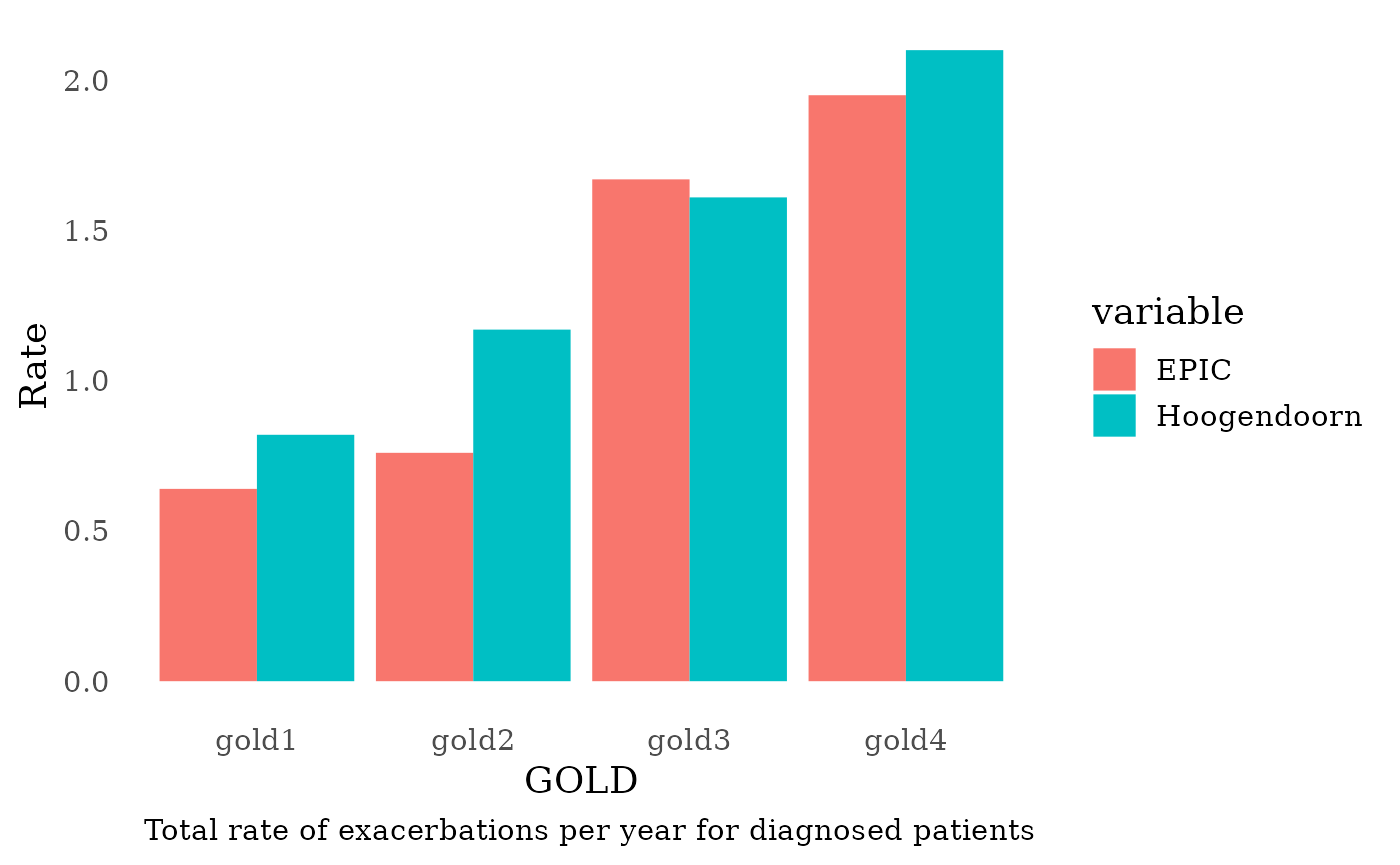
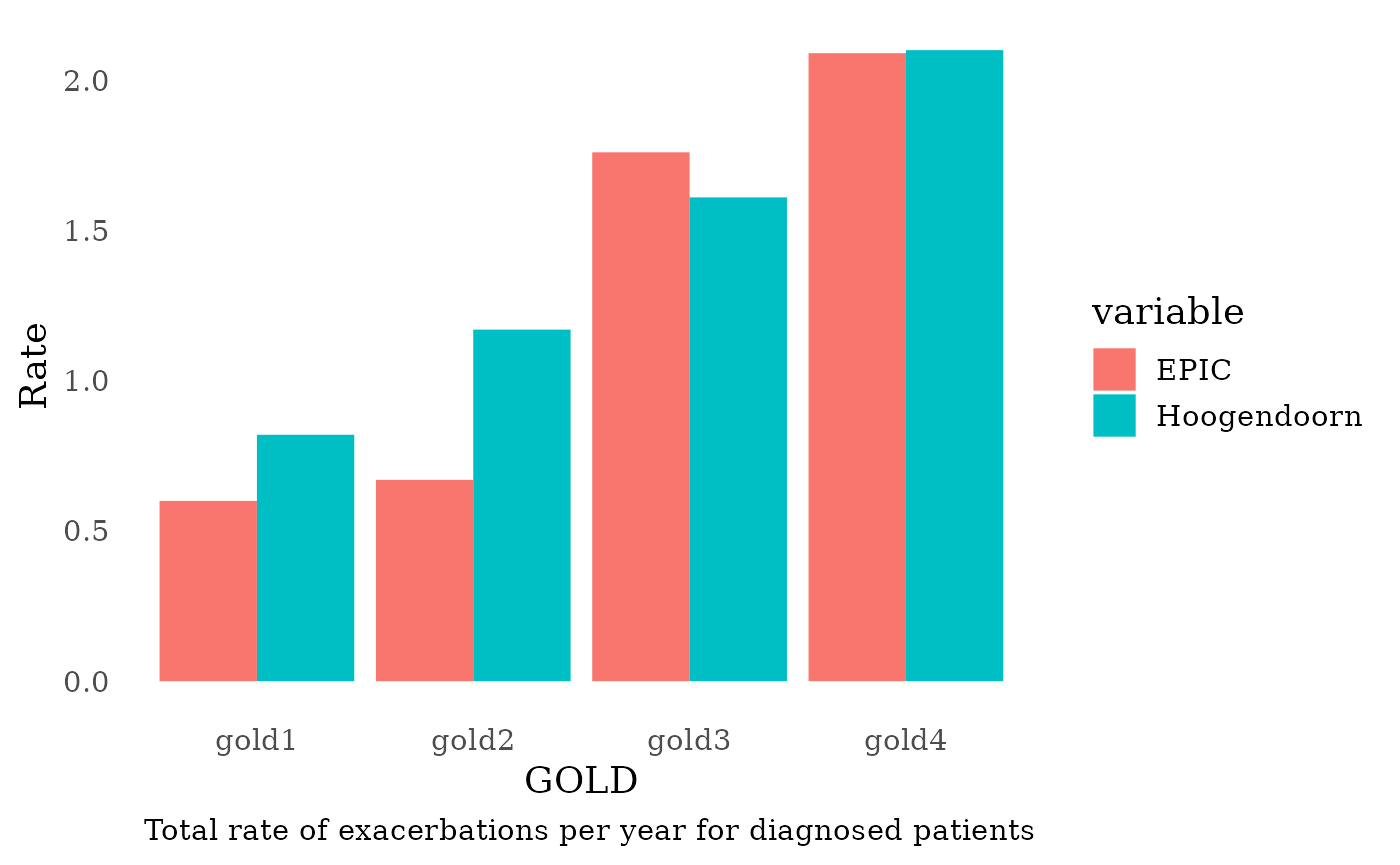
Deploying to gh-pages from @ resplab/epicR@bbd149249d0250e4ca959f1def8350e441cd35a4 🚀

diff --git a/articles/RecalibratingEPIC.html b/articles/RecalibratingEPIC.html
@@ -93,16 +93,16 @@
 <span><span class="co">#&gt; Initializing the session</span></span>
 <span><span class="co">#&gt; Terminating the session</span></span>
 <span><span class="co">#&gt; Exacerbation Rates per GOLD stages for all patients:</span></span>
-<span><span class="co">#&gt; exacRateGOLDI   = 0.29</span></span>
+<span><span class="co">#&gt; exacRateGOLDI   = 0.28</span></span>
 <span><span class="co">#&gt; exacRateGOLDII  = 0.54</span></span>
-<span><span class="co">#&gt; exacRateGOLDIII = 0.8</span></span>
-<span><span class="co">#&gt; exacRateGOLDIV  = 1.24</span></span>
-<span><span class="co">#&gt; Total rate of exacerbation in all patients (0.39 per year in CanCOLD): 0.48</span></span>
+<span><span class="co">#&gt; exacRateGOLDIII = 0.82</span></span>
+<span><span class="co">#&gt; exacRateGOLDIV  = 1.13</span></span>
+<span><span class="co">#&gt; Total rate of exacerbation in all patients (0.39 per year in CanCOLD): 0.47</span></span>
 <span><span class="co">#&gt; Is the rate of severe and very severe exacerbations around 477 per CIHI?</span></span>
-<span><span class="co">#&gt; Average rate during 20 years: 476.06</span></span>
-<span><span class="co">#&gt; Rate in 2017: 366.51</span></span></code></pre></div>
+<span><span class="co">#&gt; Average rate during 20 years: 442.14</span></span>
+<span><span class="co">#&gt; Rate in 2017: 362.82</span></span></code></pre></div>
 <p><img src="RecalibratingEPIC_files/figure-html/validation-1.png" width="700"></p>
-<pre><code><span><span class="co">#&gt; Total rate of exacerbation in diagnosed patients (1.5 per year in Hoogendoorn): 0.91</span></span></code></pre>
+<pre><code><span><span class="co">#&gt; Total rate of exacerbation in diagnosed patients (1.5 per year in Hoogendoorn): 0.88</span></span></code></pre>
 <p><img src="RecalibratingEPIC_files/figure-html/validation-2.png" width="700"><img src="RecalibratingEPIC_files/figure-html/validation-3.png" width="700"><img src="RecalibratingEPIC_files/figure-html/validation-4.png" width="700"></p>
 <pre><code><span><span class="co">#&gt; Total rate of exacerbation in undiagnosed patients (0.30 per year in CanCOLD): 0.25</span></span></code></pre>
 <p><img src="RecalibratingEPIC_files/figure-html/validation-5.png" width="700"></p>
@@ -115,16 +115,16 @@
 <span><span class="co">#&gt; Initializing the session</span></span>
 <span><span class="co">#&gt; Terminating the session</span></span>
 <span><span class="co">#&gt; Exacerbation Rates per GOLD stages for all patients:</span></span>
-<span><span class="co">#&gt; exacRateGOLDI   = 0.5</span></span>
-<span><span class="co">#&gt; exacRateGOLDII  = 0.88</span></span>
-<span><span class="co">#&gt; exacRateGOLDIII = 1.46</span></span>
-<span><span class="co">#&gt; exacRateGOLDIV  = 1.69</span></span>
-<span><span class="co">#&gt; Total rate of exacerbation in all patients (0.39 per year in CanCOLD): 0.8</span></span>
+<span><span class="co">#&gt; exacRateGOLDI   = 0.48</span></span>
+<span><span class="co">#&gt; exacRateGOLDII  = 0.85</span></span>
+<span><span class="co">#&gt; exacRateGOLDIII = 1.38</span></span>
+<span><span class="co">#&gt; exacRateGOLDIV  = 1.58</span></span>
+<span><span class="co">#&gt; Total rate of exacerbation in all patients (0.39 per year in CanCOLD): 0.77</span></span>
 <span><span class="co">#&gt; Is the rate of severe and very severe exacerbations around 477 per CIHI?</span></span>
-<span><span class="co">#&gt; Average rate during 20 years: 754.34</span></span>
-<span><span class="co">#&gt; Rate in 2017: 728.03</span></span></code></pre></div>
+<span><span class="co">#&gt; Average rate during 20 years: 694.62</span></span>
+<span><span class="co">#&gt; Rate in 2017: 658.2</span></span></code></pre></div>
 <p><img src="RecalibratingEPIC_files/figure-html/validationNewEquation-1.png" width="700"></p>
-<pre><code><span><span class="co">#&gt; Total rate of exacerbation in diagnosed patients (1.5 per year in Hoogendoorn): 1.18</span></span></code></pre>
+<pre><code><span><span class="co">#&gt; Total rate of exacerbation in diagnosed patients (1.5 per year in Hoogendoorn): 1.11</span></span></code></pre>
 <p><img src="RecalibratingEPIC_files/figure-html/validationNewEquation-2.png" width="700"><img src="RecalibratingEPIC_files/figure-html/validationNewEquation-3.png" width="700"><img src="RecalibratingEPIC_files/figure-html/validationNewEquation-4.png" width="700"></p>
 <pre><code><span><span class="co">#&gt; Total rate of exacerbation in undiagnosed patients (0.30 per year in CanCOLD): 0.49</span></span></code></pre>
 <p><img src="RecalibratingEPIC_files/figure-html/validationNewEquation-5.png" width="700"></p>
@@ -139,19 +139,19 @@
 <span><span class="co">#&gt; Initializing the session</span></span>
 <span><span class="co">#&gt; Terminating the session</span></span>
 <span><span class="co">#&gt; Exacerbation Rates per GOLD stages for all patients:</span></span>
-<span><span class="co">#&gt; exacRateGOLDI   = 0.4</span></span>
+<span><span class="co">#&gt; exacRateGOLDI   = 0.39</span></span>
 <span><span class="co">#&gt; exacRateGOLDII  = 0.69</span></span>
-<span><span class="co">#&gt; exacRateGOLDIII = 1.46</span></span>
-<span><span class="co">#&gt; exacRateGOLDIV  = 1.81</span></span>
-<span><span class="co">#&gt; Total rate of exacerbation in all patients (0.39 per year in CanCOLD): 0.67</span></span>
+<span><span class="co">#&gt; exacRateGOLDIII = 1.39</span></span>
+<span><span class="co">#&gt; exacRateGOLDIV  = 1.66</span></span>
+<span><span class="co">#&gt; Total rate of exacerbation in all patients (0.39 per year in CanCOLD): 0.66</span></span>
 <span><span class="co">#&gt; Is the rate of severe and very severe exacerbations around 477 per CIHI?</span></span>
-<span><span class="co">#&gt; Average rate during 20 years: 650.3</span></span>
-<span><span class="co">#&gt; Rate in 2017: 583.93</span></span></code></pre></div>
-<p><img src="RecalibratingEPIC_files/figure-html/validationNewEquation2-1.png" width="700"></p>
-<pre><code><span><span class="co">#&gt; Total rate of exacerbation in diagnosed patients (1.5 per year in Hoogendoorn): 1</span></span></code></pre>
-<p><img src="RecalibratingEPIC_files/figure-html/validationNewEquation2-2.png" width="700"><img src="RecalibratingEPIC_files/figure-html/validationNewEquation2-3.png" width="700"><img src="RecalibratingEPIC_files/figure-html/validationNewEquation2-4.png" width="700"></p>
-<pre><code><span><span class="co">#&gt; Total rate of exacerbation in undiagnosed patients (0.30 per year in CanCOLD): 0.39</span></span></code></pre>
-<p><img src="RecalibratingEPIC_files/figure-html/validationNewEquation2-5.png" width="700"></p>
+<span><span class="co">#&gt; Average rate during 20 years: 668.15</span></span>
+<span><span class="co">#&gt; Rate in 2017: 560.67</span></span></code></pre></div>
+<p><img src="RecalibratingEPIC_files/figure-html/validationNewEquation1-1.png" width="700"></p>
+<pre><code><span><span class="co">#&gt; Total rate of exacerbation in diagnosed patients (1.5 per year in Hoogendoorn): 0.96</span></span></code></pre>
+<p><img src="RecalibratingEPIC_files/figure-html/validationNewEquation1-2.png" width="700"><img src="RecalibratingEPIC_files/figure-html/validationNewEquation1-3.png" width="700"><img src="RecalibratingEPIC_files/figure-html/validationNewEquation1-4.png" width="700"></p>
+<pre><code><span><span class="co">#&gt; Total rate of exacerbation in undiagnosed patients (0.30 per year in CanCOLD): 0.4</span></span></code></pre>
+<p><img src="RecalibratingEPIC_files/figure-html/validationNewEquation1-5.png" width="700"></p>
 </div>
 <div class="section level3">
 <h3 id="recalibration-2">Recalibration 2:<a class="anchor" aria-label="anchor" href="#recalibration-2"></a>
@@ -163,19 +163,19 @@
 <span><span class="co">#&gt; Initializing the session</span></span>
 <span><span class="co">#&gt; Terminating the session</span></span>
 <span><span class="co">#&gt; Exacerbation Rates per GOLD stages for all patients:</span></span>
-<span><span class="co">#&gt; exacRateGOLDI   = 0.39</span></span>
-<span><span class="co">#&gt; exacRateGOLDII  = 0.7</span></span>
-<span><span class="co">#&gt; exacRateGOLDIII = 1.5</span></span>
-<span><span class="co">#&gt; exacRateGOLDIV  = 1.94</span></span>
+<span><span class="co">#&gt; exacRateGOLDI   = 0.4</span></span>
+<span><span class="co">#&gt; exacRateGOLDII  = 0.71</span></span>
+<span><span class="co">#&gt; exacRateGOLDIII = 1.49</span></span>
+<span><span class="co">#&gt; exacRateGOLDIV  = 1.69</span></span>
 <span><span class="co">#&gt; Total rate of exacerbation in all patients (0.39 per year in CanCOLD): 0.68</span></span>
 <span><span class="co">#&gt; Is the rate of severe and very severe exacerbations around 477 per CIHI?</span></span>
-<span><span class="co">#&gt; Average rate during 20 years: 668</span></span>
-<span><span class="co">#&gt; Rate in 2017: 635.15</span></span></code></pre></div>
-<p><img src="RecalibratingEPIC_files/figure-html/validationNewEquation3-1.png" width="700"></p>
+<span><span class="co">#&gt; Average rate during 20 years: 675.54</span></span>
+<span><span class="co">#&gt; Rate in 2017: 574.13</span></span></code></pre></div>
+<p><img src="RecalibratingEPIC_files/figure-html/validationNewEquation2-1.png" width="700"></p>
 <pre><code><span><span class="co">#&gt; Total rate of exacerbation in diagnosed patients (1.5 per year in Hoogendoorn): 1</span></span></code></pre>
-<p><img src="RecalibratingEPIC_files/figure-html/validationNewEquation3-2.png" width="700"><img src="RecalibratingEPIC_files/figure-html/validationNewEquation3-3.png" width="700"><img src="RecalibratingEPIC_files/figure-html/validationNewEquation3-4.png" width="700"></p>
+<p><img src="RecalibratingEPIC_files/figure-html/validationNewEquation2-2.png" width="700"><img src="RecalibratingEPIC_files/figure-html/validationNewEquation2-3.png" width="700"><img src="RecalibratingEPIC_files/figure-html/validationNewEquation2-4.png" width="700"></p>
 <pre><code><span><span class="co">#&gt; Total rate of exacerbation in undiagnosed patients (0.30 per year in CanCOLD): 0.41</span></span></code></pre>
-<p><img src="RecalibratingEPIC_files/figure-html/validationNewEquation3-5.png" width="700"></p>
+<p><img src="RecalibratingEPIC_files/figure-html/validationNewEquation2-5.png" width="700"></p>
 </div>
 <div class="section level3">
 <h3 id="recalibration-3">Recalibration 3:<a class="anchor" aria-label="anchor" href="#recalibration-3"></a>
@@ -187,19 +187,19 @@
 <span><span class="co">#&gt; Initializing the session</span></span>
 <span><span class="co">#&gt; Terminating the session</span></span>
 <span><span class="co">#&gt; Exacerbation Rates per GOLD stages for all patients:</span></span>
-<span><span class="co">#&gt; exacRateGOLDI   = 0.4</span></span>
-<span><span class="co">#&gt; exacRateGOLDII  = 0.41</span></span>
-<span><span class="co">#&gt; exacRateGOLDIII = 1.46</span></span>
-<span><span class="co">#&gt; exacRateGOLDIV  = 1.77</span></span>
-<span><span class="co">#&gt; Total rate of exacerbation in all patients (0.39 per year in CanCOLD): 0.55</span></span>
+<span><span class="co">#&gt; exacRateGOLDI   = 0.41</span></span>
+<span><span class="co">#&gt; exacRateGOLDII  = 0.43</span></span>
+<span><span class="co">#&gt; exacRateGOLDIII = 1.53</span></span>
+<span><span class="co">#&gt; exacRateGOLDIV  = 1.6</span></span>
+<span><span class="co">#&gt; Total rate of exacerbation in all patients (0.39 per year in CanCOLD): 0.57</span></span>
 <span><span class="co">#&gt; Is the rate of severe and very severe exacerbations around 477 per CIHI?</span></span>
-<span><span class="co">#&gt; Average rate during 20 years: 546.8</span></span>
-<span><span class="co">#&gt; Rate in 2017: 504.34</span></span></code></pre></div>
-<p><img src="RecalibratingEPIC_files/figure-html/validationNewEquation4-1.png" width="700"></p>
-<pre><code><span><span class="co">#&gt; Total rate of exacerbation in diagnosed patients (1.5 per year in Hoogendoorn): 0.82</span></span></code></pre>
-<p><img src="RecalibratingEPIC_files/figure-html/validationNewEquation4-2.png" width="700"><img src="RecalibratingEPIC_files/figure-html/validationNewEquation4-3.png" width="700"><img src="RecalibratingEPIC_files/figure-html/validationNewEquation4-4.png" width="700"></p>
-<pre><code><span><span class="co">#&gt; Total rate of exacerbation in undiagnosed patients (0.30 per year in CanCOLD): 0.3</span></span></code></pre>
-<p><img src="RecalibratingEPIC_files/figure-html/validationNewEquation4-5.png" width="700"></p>
+<span><span class="co">#&gt; Average rate during 20 years: 575.19</span></span>
+<span><span class="co">#&gt; Rate in 2017: 453.36</span></span></code></pre></div>
+<p><img src="RecalibratingEPIC_files/figure-html/validationNewEquation3-1.png" width="700"></p>
+<pre><code><span><span class="co">#&gt; Total rate of exacerbation in diagnosed patients (1.5 per year in Hoogendoorn): 0.87</span></span></code></pre>
+<p><img src="RecalibratingEPIC_files/figure-html/validationNewEquation3-2.png" width="700"><img src="RecalibratingEPIC_files/figure-html/validationNewEquation3-3.png" width="700"><img src="RecalibratingEPIC_files/figure-html/validationNewEquation3-4.png" width="700"></p>
+<pre><code><span><span class="co">#&gt; Total rate of exacerbation in undiagnosed patients (0.30 per year in CanCOLD): 0.31</span></span></code></pre>
+<p><img src="RecalibratingEPIC_files/figure-html/validationNewEquation3-5.png" width="700"></p>
 </div>
 <div class="section level3">
 <h3 id="recalibration-4">Recalibration 4:<a class="anchor" aria-label="anchor" href="#recalibration-4"></a>
@@ -211,18 +211,42 @@
 <span><span class="co">#&gt; Initializing the session</span></span>
 <span><span class="co">#&gt; Terminating the session</span></span>
 <span><span class="co">#&gt; Exacerbation Rates per GOLD stages for all patients:</span></span>
-<span><span class="co">#&gt; exacRateGOLDI   = 0.41</span></span>
-<span><span class="co">#&gt; exacRateGOLDII  = 0.57</span></span>
-<span><span class="co">#&gt; exacRateGOLDIII = 1.5</span></span>
-<span><span class="co">#&gt; exacRateGOLDIV  = 1.77</span></span>
-<span><span class="co">#&gt; Total rate of exacerbation in all patients (0.39 per year in CanCOLD): 0.62</span></span>
+<span><span class="co">#&gt; exacRateGOLDI   = 0.4</span></span>
+<span><span class="co">#&gt; exacRateGOLDII  = 0.58</span></span>
+<span><span class="co">#&gt; exacRateGOLDIII = 1.49</span></span>
+<span><span class="co">#&gt; exacRateGOLDIV  = 1.71</span></span>
+<span><span class="co">#&gt; Total rate of exacerbation in all patients (0.39 per year in CanCOLD): 0.63</span></span>
 <span><span class="co">#&gt; Is the rate of severe and very severe exacerbations around 477 per CIHI?</span></span>
-<span><span class="co">#&gt; Average rate during 20 years: 610.36</span></span>
-<span><span class="co">#&gt; Rate in 2017: 568.67</span></span></code></pre></div>
-<p><img src="RecalibratingEPIC_files/figure-html/validationNewEquation5-1.png" width="700"></p>
-<pre><code><span><span class="co">#&gt; Total rate of exacerbation in diagnosed patients (1.5 per year in Hoogendoorn): 0.92</span></span></code></pre>
-<p><img src="RecalibratingEPIC_files/figure-html/validationNewEquation5-2.png" width="700"><img src="RecalibratingEPIC_files/figure-html/validationNewEquation5-3.png" width="700"><img src="RecalibratingEPIC_files/figure-html/validationNewEquation5-4.png" width="700"></p>
+<span><span class="co">#&gt; Average rate during 20 years: 643.04</span></span>
+<span><span class="co">#&gt; Rate in 2017: 574.61</span></span></code></pre></div>
+<p><img src="RecalibratingEPIC_files/figure-html/validationNewEquation4-1.png" width="700"></p>
+<pre><code><span><span class="co">#&gt; Total rate of exacerbation in diagnosed patients (1.5 per year in Hoogendoorn): 0.95</span></span></code></pre>
+<p><img src="RecalibratingEPIC_files/figure-html/validationNewEquation4-2.png" width="700"><img src="RecalibratingEPIC_files/figure-html/validationNewEquation4-3.png" width="700"><img src="RecalibratingEPIC_files/figure-html/validationNewEquation4-4.png" width="700"></p>
 <pre><code><span><span class="co">#&gt; Total rate of exacerbation in undiagnosed patients (0.30 per year in CanCOLD): 0.36</span></span></code></pre>
+<p><img src="RecalibratingEPIC_files/figure-html/validationNewEquation4-5.png" width="700"></p>
+</div>
+<div class="section level3">
+<h3 id="recalibration-5">Recalibration 5:<a class="anchor" aria-label="anchor" href="#recalibration-5"></a>
+</h3>
+<p>GOLD2 back a bit again.</p>
+<div class="sourceCode" id="cb20"><pre class="downlit sourceCode r">
+<code class="sourceCode R"><span><span class="va">inputs</span><span class="op">$</span><span class="va">exacerbation</span><span class="op">$</span><span class="va">ln_rate_betas</span> <span class="op">&lt;-</span> <span class="fu"><a href="https://rdrr.io/r/base/t.html" class="external-link">t</a></span><span class="op">(</span><span class="fu"><a href="https://rdrr.io/r/base/matrix.html" class="external-link">as.matrix</a></span><span class="op">(</span><span class="fu"><a href="https://rdrr.io/r/base/c.html" class="external-link">c</a></span><span class="op">(</span>intercept <span class="op">=</span> <span class="fl">1.7</span>, female <span class="op">=</span> <span class="fl">0</span>, age <span class="op">=</span> <span class="fl">0.04082</span> <span class="op">*</span> <span class="fl">0.1</span>, fev1 <span class="op">=</span> <span class="op">-</span><span class="fl">1.5</span>, smoking_status <span class="op">=</span> <span class="fl">0.5</span>, gold1 <span class="op">=</span> <span class="fl">0.3</span> , gold2 <span class="op">=</span> <span class="op">-</span><span class="fl">0.3</span> , gold3 <span class="op">=</span> <span class="fl">0.08</span> , gold4 <span class="op">=</span> <span class="op">-</span><span class="fl">0.35</span> , diagnosis_effect <span class="op">=</span> <span class="fl">0</span><span class="op">)</span><span class="op">)</span><span class="op">)</span></span>
+<span><span class="fu"><a href="../reference/validate_exacerbation.html">validate_exacerbation</a></span><span class="op">(</span><span class="fl">5e4</span>, <span class="va">inputs</span><span class="op">)</span></span>
+<span><span class="co">#&gt; Initializing the session</span></span>
+<span><span class="co">#&gt; Terminating the session</span></span>
+<span><span class="co">#&gt; Exacerbation Rates per GOLD stages for all patients:</span></span>
+<span><span class="co">#&gt; exacRateGOLDI   = 0.39</span></span>
+<span><span class="co">#&gt; exacRateGOLDII  = 0.52</span></span>
+<span><span class="co">#&gt; exacRateGOLDIII = 1.54</span></span>
+<span><span class="co">#&gt; exacRateGOLDIV  = 1.81</span></span>
+<span><span class="co">#&gt; Total rate of exacerbation in all patients (0.39 per year in CanCOLD): 0.6</span></span>
+<span><span class="co">#&gt; Is the rate of severe and very severe exacerbations around 477 per CIHI?</span></span>
+<span><span class="co">#&gt; Average rate during 20 years: 606.01</span></span>
+<span><span class="co">#&gt; Rate in 2017: 529.31</span></span></code></pre></div>
+<p><img src="RecalibratingEPIC_files/figure-html/validationNewEquation5-1.png" width="700"></p>
+<pre><code><span><span class="co">#&gt; Total rate of exacerbation in diagnosed patients (1.5 per year in Hoogendoorn): 0.91</span></span></code></pre>
+<p><img src="RecalibratingEPIC_files/figure-html/validationNewEquation5-2.png" width="700"><img src="RecalibratingEPIC_files/figure-html/validationNewEquation5-3.png" width="700"><img src="RecalibratingEPIC_files/figure-html/validationNewEquation5-4.png" width="700"></p>
+<pre><code><span><span class="co">#&gt; Total rate of exacerbation in undiagnosed patients (0.30 per year in CanCOLD): 0.35</span></span></code></pre>
 <p><img src="RecalibratingEPIC_files/figure-html/validationNewEquation5-5.png" width="700"></p>
 </div>
   </div>

diff --git a/articles/GettingStarted.html b/articles/GettingStarted.html
@@ -204,40 +204,40 @@
 <span><span class="va">events</span> <span class="op">&lt;-</span> <span class="fu"><a href="https://rdrr.io/r/base/as.data.frame.html" class="external-link">as.data.frame</a></span><span class="op">(</span><span class="fu"><a href="../reference/Cget_all_events_matrix.html">Cget_all_events_matrix</a></span><span class="op">(</span><span class="op">)</span><span class="op">)</span></span>
 <span><span class="fu"><a href="https://rdrr.io/r/utils/head.html" class="external-link">head</a></span><span class="op">(</span><span class="va">events</span><span class="op">)</span></span>
 <span><span class="co">#&gt;   id local_time female time_at_creation age_at_creation pack_years gold event</span></span>
-<span><span class="co">#&gt; 1  0          0      1                0        41.20014          0    0     0</span></span>
-<span><span class="co">#&gt; 2  0          1      1                0        41.20014          0    0     1</span></span>
-<span><span class="co">#&gt; 3  0          2      1                0        41.20014          0    0     1</span></span>
-<span><span class="co">#&gt; 4  0          3      1                0        41.20014          0    0     1</span></span>
-<span><span class="co">#&gt; 5  0          4      1                0        41.20014          0    0     1</span></span>
-<span><span class="co">#&gt; 6  0          5      1                0        41.20014          0    0    14</span></span>
+<span><span class="co">#&gt; 1  0   0.000000      1                0        42.65422  0.0000000    0     0</span></span>
+<span><span class="co">#&gt; 2  0   1.000000      1                0        42.65422  0.0000000    0     1</span></span>
+<span><span class="co">#&gt; 3  0   2.000000      1                0        42.65422  0.0000000    0     1</span></span>
+<span><span class="co">#&gt; 4  0   3.000000      1                0        42.65422  0.0000000    0     1</span></span>
+<span><span class="co">#&gt; 5  0   3.496254      1                0        42.65422  0.0000000    0     3</span></span>
+<span><span class="co">#&gt; 6  0   4.000000      1                0        42.65422  0.5037456    0     1</span></span>
 <span><span class="co">#&gt;   FEV1 FEV1_slope FEV1_acceleration pred_FEV1 smoking_status localtime_at_COPD</span></span>
 <span><span class="co">#&gt; 1    0          0                 0         0              0                 0</span></span>
 <span><span class="co">#&gt; 2    0          0                 0         0              0                 0</span></span>
 <span><span class="co">#&gt; 3    0          0                 0         0              0                 0</span></span>
 <span><span class="co">#&gt; 4    0          0                 0         0              0                 0</span></span>
-<span><span class="co">#&gt; 5    0          0                 0         0              0                 0</span></span>
-<span><span class="co">#&gt; 6    0          0                 0         0              0                 0</span></span>
+<span><span class="co">#&gt; 5    0          0                 0         0              1                 0</span></span>
+<span><span class="co">#&gt; 6    0          0                 0         0              1                 0</span></span>
 <span><span class="co">#&gt;   age_at_COPD weight_at_COPD   height followup_after_COPD FEV1_baseline</span></span>
-<span><span class="co">#&gt; 1           0              0 1.703621                   0      3.268754</span></span>
-<span><span class="co">#&gt; 2           0              0 1.703621                   0      3.268754</span></span>
-<span><span class="co">#&gt; 3           0              0 1.703621                   0      3.268754</span></span>
-<span><span class="co">#&gt; 4           0              0 1.703621                   0      3.268754</span></span>
-<span><span class="co">#&gt; 5           0              0 1.703621                   0      3.268754</span></span>
-<span><span class="co">#&gt; 6           0              0 1.703621                   0      3.268754</span></span>
+<span><span class="co">#&gt; 1           0              0 1.683123                   0      2.155322</span></span>
+<span><span class="co">#&gt; 2           0              0 1.683123                   0      2.155322</span></span>
+<span><span class="co">#&gt; 3           0              0 1.683123                   0      2.155322</span></span>
+<span><span class="co">#&gt; 4           0              0 1.683123                   0      2.155322</span></span>
+<span><span class="co">#&gt; 5           0              0 1.683123                   0      2.155322</span></span>
+<span><span class="co">#&gt; 6           0              0 1.683123                   0      2.155322</span></span>
 <span><span class="co">#&gt;   exac_status cough phlegm wheeze dyspnea gpvisits diagnosis medication_status</span></span>
-<span><span class="co">#&gt; 1           0     0      0      0       0        0         0                 0</span></span>
-<span><span class="co">#&gt; 2           0     0      0      0       0        1         0                 0</span></span>
-<span><span class="co">#&gt; 3           0     0      0      0       0        5         0                 0</span></span>
-<span><span class="co">#&gt; 4           0     0      0      0       0        0         0                 0</span></span>
-<span><span class="co">#&gt; 5           0     0      0      0       0        1         0                 0</span></span>
-<span><span class="co">#&gt; 6           0     0      0      0       0        1         0                 0</span></span>
+<span><span class="co">#&gt; 1           0     0      1      0       0        0         0                 0</span></span>
+<span><span class="co">#&gt; 2           0     0      1      0       0        1         0                 0</span></span>
+<span><span class="co">#&gt; 3           0     0      0      0       0        2         0                 0</span></span>
+<span><span class="co">#&gt; 4           0     0      0      1       0        3         0                 0</span></span>
+<span><span class="co">#&gt; 5           0     0      0      1       0        3         0                 0</span></span>
+<span><span class="co">#&gt; 6           0     0      0      0       1        1         0                 0</span></span>
 <span><span class="co">#&gt;   case_detection cumul_cost cumul_qaly time_at_diagnosis</span></span>
 <span><span class="co">#&gt; 1              0          0  0.0000000                 0</span></span>
 <span><span class="co">#&gt; 2              0          0  0.8349515                 0</span></span>
 <span><span class="co">#&gt; 3              0          0  1.6455839                 0</span></span>
 <span><span class="co">#&gt; 4              0          0  2.4326058                 0</span></span>
-<span><span class="co">#&gt; 5              0          0  3.1967046                 0</span></span>
-<span><span class="co">#&gt; 6              0          0  3.9385482                 0</span></span>
+<span><span class="co">#&gt; 5              0          0  2.4326058                 0</span></span>
+<span><span class="co">#&gt; 6              0          0  3.1967046                 0</span></span>
 <span><span class="co">#&gt;   exac_history_n_moderate exac_history_n_severe_plus</span></span>
 <span><span class="co">#&gt; 1                       0                          0</span></span>
 <span><span class="co">#&gt; 2                       0                          0</span></span>
@@ -320,34 +320,34 @@
 <span><span class="co">#&gt; [1] 60001</span></span>
 <span><span class="co">#&gt; </span></span>
 <span><span class="co">#&gt; $cumul_time</span></span>
-<span><span class="co">#&gt; [1] 1000277</span></span>
+<span><span class="co">#&gt; [1] 1000416</span></span>
 <span><span class="co">#&gt; </span></span>
 <span><span class="co">#&gt; $n_deaths</span></span>
-<span><span class="co">#&gt; [1] 20058</span></span>
+<span><span class="co">#&gt; [1] 19981</span></span>
 <span><span class="co">#&gt; </span></span>
 <span><span class="co">#&gt; $n_COPD</span></span>
-<span><span class="co">#&gt; [1] 11878</span></span>
+<span><span class="co">#&gt; [1] 11893</span></span>
 <span><span class="co">#&gt; </span></span>
 <span><span class="co">#&gt; $total_exac</span></span>
-<span><span class="co">#&gt; [1] 11773 54262  4912   346</span></span>
+<span><span class="co">#&gt; [1] 11923 54396  4876   397</span></span>
 <span><span class="co">#&gt; </span></span>
 <span><span class="co">#&gt; $total_exac_time</span></span>
-<span><span class="co">#&gt; [1] 2.091208 9.809760 9.657127 1.114458</span></span>
+<span><span class="co">#&gt; [1]  2.205290 10.643327  9.728719  1.401603</span></span>
 <span><span class="co">#&gt; </span></span>
 <span><span class="co">#&gt; $total_pack_years</span></span>
-<span><span class="co">#&gt; [1] 855885.5</span></span>
+<span><span class="co">#&gt; [1] 856063.6</span></span>
 <span><span class="co">#&gt; </span></span>
 <span><span class="co">#&gt; $total_doctor_visit</span></span>
 <span><span class="co">#&gt; [1] 0 0</span></span>
 <span><span class="co">#&gt; </span></span>
 <span><span class="co">#&gt; $total_cost</span></span>
-<span><span class="co">#&gt; [1] 181114381</span></span>
+<span><span class="co">#&gt; [1] 182522851</span></span>
 <span><span class="co">#&gt; </span></span>
 <span><span class="co">#&gt; $total_qaly</span></span>
-<span><span class="co">#&gt; [1] 639881.8</span></span>
+<span><span class="co">#&gt; [1] 639824.6</span></span>
 <span><span class="co">#&gt; </span></span>
 <span><span class="co">#&gt; $total_diagnosed_time</span></span>
-<span><span class="co">#&gt; [1] 42283.22</span></span>
+<span><span class="co">#&gt; [1] 42553.77</span></span>
 <span><span class="fu"><a href="../reference/terminate_session.html">terminate_session</a></span><span class="op">(</span><span class="op">)</span></span>
 <span><span class="co">#&gt; Terminating the session</span></span>
 <span><span class="co">#&gt; [1] 0</span></span></code></pre></div>
